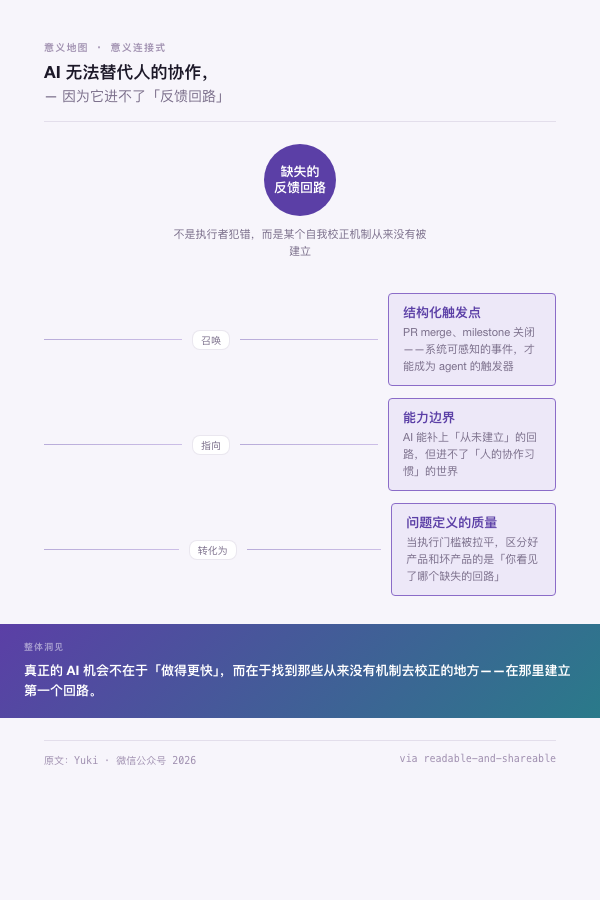
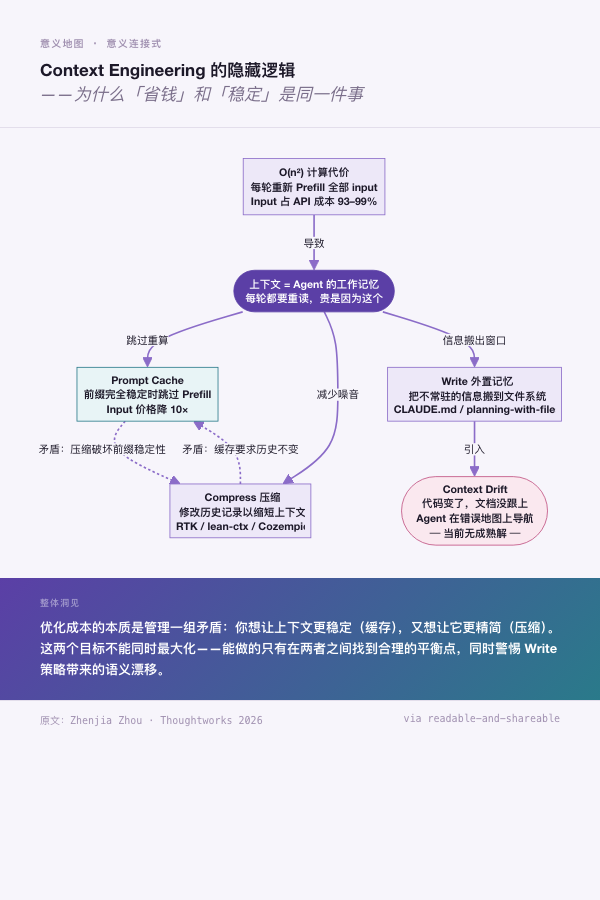
fix: rewrite INFJ preview with Mermaid graph for concept network
- Replace CSS-based linear layout with Mermaid graph TD
- Use classDef for node styling (core/danger/teal/normal tiers)
- Remove markdown bold syntax (unsupported in Mermaid node labels)
- Add INFJ purple themeVariables via %%{init}%%
- Update infj.md tool section: Mermaid graph is now the recommended approach
- Refresh showcase-mbti-infj.png

diff --git a/docs/preview-infj-v2.html b/docs/preview-infj-v2.html
@@ -3,48 +3,37 @@
 <head>
 <meta charset="UTF-8">
 <title>INFJ v2 — 意义地图</title>
+<script src="mermaid.min.js"></script>
 <style>
 *,*::before,*::after{box-sizing:border-box;margin:0;padding:0}
 :root{
-  --bg:#F7F5FB;--surface:#EEEAF5;
-  --text:#1C1828;--text2:#7A6E8A;--text3:#A090B0;
+  --bg:#F7F5FB;
+  --surface:#EEEAF5;
+  --text:#1C1828;
+  --text2:#7A6E8A;
+  --text3:#A090B0;
   --border:rgba(80,60,120,0.12);
-  --core:#5B3FA6;--core-bg:#EDE8F8;
-  --link:#8B6CC8;--link-bg:#F3EFFE;
-  --grad-start:#5B3FA6;--grad-end:#2A7A8A;
+  --core:#5B3FA6;
+  --teal:#2A7A8A;
   --font:-apple-system,"Helvetica Neue","PingFang SC",sans-serif;
   --mono:"SF Mono","Menlo","Courier New",monospace;
 }
 html,body{font-family:var(--font);background:var(--bg);color:var(--text);-webkit-font-smoothing:antialiased}
-.page{width:600px;margin:0 auto;padding:40px 44px 0;display:flex;flex-direction:column;gap:22px}
+.page{width:600px;margin:0 auto;display:flex;flex-direction:column}
 
-.header{border-bottom:0.5px solid var(--border);padding-bottom:14px}
-.eyebrow{font-size:10px;font-weight:600;letter-spacing:.12em;text-transform:uppercase;color:var(--text3);font-family:var(--mono);margin-bottom:7px}
-.title{font-size:17px;font-weight:600;line-height:1.35;color:var(--text)}
-.title em{font-style:normal;color:var(--text2);font-weight:400;font-size:14px}
+.header{padding:36px 40px 20px;border-bottom:0.5px solid var(--border)}
+.eyebrow{font-size:10px;font-weight:600;letter-spacing:.12em;text-transform:uppercase;color:var(--text3);font-family:var(--mono);margin-bottom:8px}
+.title{font-size:17px;font-weight:600;line-height:1.4;color:var(--text)}
+.title em{font-style:italic;color:var(--text2);font-weight:400}
 
-/* ① Core Circle */
-.core-wrap{display:flex;flex-direction:column;align-items:center;gap:0}
-.core-circle{width:72px;height:72px;border-radius:50%;background:var(--core);display:flex;align-items:center;justify-content:center;flex-direction:column;gap:2px}
-.core-word{font-size:13px;font-weight:700;color:#fff;text-align:center;line-height:1.2;padding:0 8px}
-.core-sublabel{font-size:9px;color:rgba(255,255,255,.55);font-family:var(--mono);margin-top:2px;letter-spacing:.06em}
-.core-desc{font-size:11px;color:var(--text2);margin-top:10px;text-align:center;max-width:260px;line-height:1.6}
+.map-wrap{padding:24px 32px;background:var(--bg)}
+.map-wrap .mermaid{width:100%}
 
-/* ② Links + ③ Satellites */
-.network{display:flex;flex-direction:column;gap:0;margin-top:4px}
-.link-row{display:flex;align-items:center;gap:10px;padding:6px 0}
-.link-pill{font-size:10px;border:0.5px solid var(--border);border-radius:8px;padding:2px 8px;color:var(--text2);background:#fff;white-space:nowrap;font-family:var(--mono)}
-.link-line{flex:1;height:1px;background:linear-gradient(to right,var(--core),var(--link));opacity:.4}
-.satellite{border:1px solid var(--link);border-radius:4px;background:var(--core-bg);padding:10px 14px;flex:1}
-.sat-title{font-size:13px;font-weight:600;color:var(--core);line-height:1.3;margin-bottom:3px}
-.sat-desc{font-size:11px;color:var(--text2);line-height:1.55}
+.insight{background:linear-gradient(135deg,var(--core),var(--teal));padding:18px 40px 20px}
+.insight-label{font-size:9px;font-weight:700;letter-spacing:.12em;text-transform:uppercase;color:rgba(255,255,255,.45);font-family:var(--mono);margin-bottom:8px}
+.insight-text{font-size:13px;font-weight:600;color:#fff;line-height:1.6}
 
-/* ④ Insight Footer */
-.insight{background:linear-gradient(135deg,var(--grad-start),var(--grad-end));padding:16px 24px 18px;margin:0 -44px}
-.insight-label{font-size:9px;font-weight:700;letter-spacing:.12em;text-transform:uppercase;color:rgba(255,255,255,.5);font-family:var(--mono);margin-bottom:7px}
-.insight-text{font-size:13px;font-weight:600;color:#fff;line-height:1.55}
-
-.footer{padding:12px 0;display:flex;justify-content:space-between;font-size:10px;color:var(--text3);font-family:var(--mono);border-top:0.5px solid var(--border)}
+.footer-bar{padding:12px 40px;display:flex;justify-content:space-between;border-top:0.5px solid var(--border);font-size:10px;color:var(--text3);font-family:var(--mono)}
 </style>
 </head>
 <body>
@@ -52,58 +41,73 @@ html,body{font-family:var(--font);background:var(--bg);color:var(--text);-webkit
 
   <div class="header">
     <div class="eyebrow">意义地图 · 意义连接式</div>
-    <div class="title">AI 无法替代人的协作，<br><em>— 因为它进不了「反馈回路」</em></div>
+    <div class="title">Context Engineering 的隐藏逻辑<br><em>——为什么「省钱」和「稳定」是同一件事</em></div>
   </div>
 
-  <!-- ① Core Circle -->
-  <div class="core-wrap">
-    <div class="core-circle">
-      <div class="core-word">缺失的<br>反馈回路</div>
+  <div class="map-wrap">
+    <div class="mermaid">
+%%{init: {
+  "theme": "base",
+  "themeVariables": {
+    "primaryColor": "#EDE8F8",
+    "primaryTextColor": "#1C1828",
+    "primaryBorderColor": "#8B6CC8",
+    "lineColor": "#8B6CC8",
+    "secondaryColor": "#E8F4F6",
+    "secondaryTextColor": "#1C1828",
+    "secondaryBorderColor": "#2A7A8A",
+    "tertiaryColor": "#FAE8EF",
+    "tertiaryTextColor": "#1C1828",
+    "tertiaryBorderColor": "#C05080",
+    "edgeLabelBackground": "#F7F5FB",
+    "fontFamily": "PingFang SC, Helvetica Neue, sans-serif",
+    "fontSize": "13px"
+  }
+}}%%
+graph TD
+    O2["O(n²) 计算代价\n每轮重新 Prefill 全部 input\nInput 占 API 成本 93–99%"]
+    CORE(["上下文 = Agent 的工作记忆\n每轮都要重读，贵是因为这个"])
+    CACHE["Prompt Cache\n前缀完全稳定时跳过 Prefill\nInput 价格降 10×"]
+    COMPRESS["Compress 压缩\n修改历史记录以缩短上下文\nRTK / lean-ctx / Cozempic"]
+    WRITE["Write 外置记忆\n把不常驻的信息搬到文件系统\nCLAUDE.md / planning-with-files"]
+    DRIFT(["Context Drift\n代码变了，文档没跟上\nAgent 在错误地图上导航\n─ 当前无成熟解 ─"])
+
+    classDef core fill:#5B3FA6,stroke:#5B3FA6,color:#fff,font-weight:bold
+    classDef danger fill:#FAE8EF,stroke:#C05080,color:#1C1828,font-weight:bold
+    classDef teal fill:#E8F4F6,stroke:#2A7A8A,color:#1C1828,font-weight:bold
+    classDef normal fill:#EDE8F8,stroke:#8B6CC8,color:#1C1828,font-weight:600
+
+    class CORE core
+    class DRIFT danger
+    class CACHE teal
+    class O2,COMPRESS,WRITE normal
+
+    O2 -->|"导致"| CORE
+    CORE -->|"跳过重算"| CACHE
+    CACHE -.->|"矛盾：压缩破坏前缀稳定性"| COMPRESS
+    COMPRESS -.->|"矛盾：缓存要求历史不变"| CACHE
+    CORE -->|"减少噪音"| COMPRESS
+    CORE -->|"信息搬出窗口"| WRITE
+    WRITE -->|"引入"| DRIFT
     </div>
-    <div class="core-desc">不是执行者犯错，而是某个自我校正机制从来没有被建立</div>
   </div>
 
-  <!-- ② + ③ Meaning Network -->
-  <div class="network">
-    <div class="link-row">
-      <div class="link-line"></div>
-      <div class="link-pill">召唤</div>
-      <div class="link-line"></div>
-      <div class="satellite">
-        <div class="sat-title">结构化触发点</div>
-        <div class="sat-desc">PR merge、milestone 关闭——系统可感知的事件，才能成为 agent 的触发器</div>
-      </div>
-    </div>
-    <div class="link-row">
-      <div class="link-line"></div>
-      <div class="link-pill">指向</div>
-      <div class="link-line"></div>
-      <div class="satellite">
-        <div class="sat-title">能力边界</div>
-        <div class="sat-desc">AI 能补上「从未建立」的回路，但进不了「人的协作习惯」的世界</div>
-      </div>
-    </div>
-    <div class="link-row">
-      <div class="link-line"></div>
-      <div class="link-pill">转化为</div>
-      <div class="link-line"></div>
-      <div class="satellite">
-        <div class="sat-title">问题定义的质量</div>
-        <div class="sat-desc">当执行门槛被拉平，区分好产品和坏产品的是「你看见了哪个缺失的回路」</div>
-      </div>
-    </div>
-  </div>
-
-  <!-- ④ Insight Footer -->
   <div class="insight">
     <div class="insight-label">整体洞见</div>
-    <div class="insight-text">真正的 AI 机会不在于「做得更快」，而在于找到那些从来没有机制去校正的地方——在那里建立第一个回路。</div>
+    <div class="insight-text">优化成本的本质是管理一组矛盾：你想让上下文更稳定（缓存），又想让它更精简（压缩）。这两个目标不能同时最大化——能做的只有在两者之间找到合理的平衡点，同时警惕 Write 策略带来的语义漂移。</div>
   </div>
 
-  <div class="footer">
-    <span>原文：Yuki · 微信公众号 2026</span>
+  <div class="footer-bar">
+    <span>原文：Zhenjia Zhou · Thoughtworks 2026</span>
     <span>via readable-and-shareable</span>
   </div>
+
 </div>
+<script>
+  mermaid.initialize({
+    startOnLoad: true,
+    securityLevel: 'loose'
+  });
+</script>
 </body>
 </html>